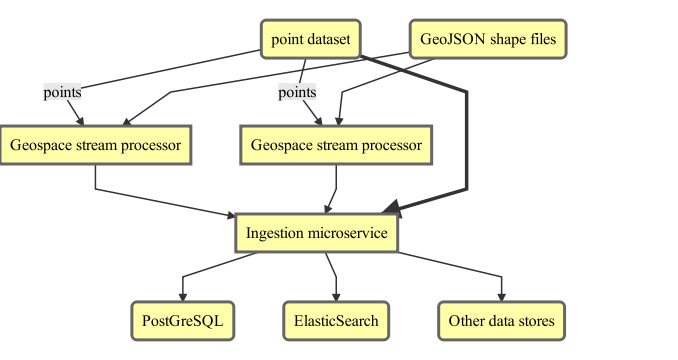
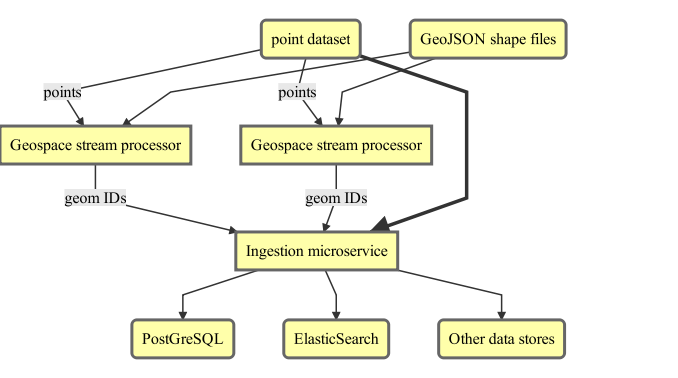
More adjustments to geo presentation, plus more images!

diff --git a/2015-streaming-geo-processing/streaming-geo-processing.md b/2015-streaming-geo-processing/streaming-geo-processing.md
@@ -18,38 +18,36 @@
 ## ![](socrata-white-medium.png)
 
 <center>
-<h3>We build <span style="color: #4e82ff">software</span> to make <span style="color: #ff5887">data</span> useful to <span style="color: #f7b63d">more people</span>.</h3>
+<h3>The leading open <span style="color: #ff5887">data</span> software platform</h3>
 </center>
 
-[data.edmonton.ca](http://data.edmonton.ca) [finances.worldbank.org](http://finances.worldbank.org) [data.cityofchicago.org](http://data.cityofchicago.org) [data.seattle.gov](http://data.seattle.gov) [data.oregon.gov](http://data.oregon.gov) [data.wa.gov](http://data.wa.gov) [www.metrochicagodata.org](http://www.metrochicagodata.org) [data.cityofboston.gov](http://data.cityofboston.gov) [info.samhsa.gov](http://info.samhsa.gov) [explore.data.gov](http://explore.data.gov) [data.cms.gov](http://data.cms.gov) [data.ok.gov](http://data.ok.gov) [data.nola.gov](http://data.nola.gov) [data.illinois.gov](http://data.illinois.gov) [data.colorado.gov](http://data.colorado.gov) [data.austintexas.gov](http://data.austintexas.gov) [data.undp.org](http://data.undp.org) [www.opendatanyc.com](http://www.opendatanyc.com) [data.mo.gov](http://data.mo.gov) [data.nfpa.org](http://data.nfpa.org) [data.raleighnc.gov](http://data.raleighnc.gov) [dati.lombardia.it](http://dati.lombardia.it) [data.montgomerycountymd.gov](http://data.montgomerycountymd.gov) [data.cityofnewyork.us](http://data.cityofnewyork.us) [data.acgov.org](http://data.acgov.org) [data.baltimorecity.gov](http://data.baltimorecity.gov) [data.energystar.gov](http://data.energystar.gov) [data.somervillema.gov](http://data.somervillema.gov) [data.maryland.gov](http://data.maryland.gov) [data.taxpayer.net](http://data.taxpayer.net) [bronx.lehman.cuny.edu](http://bronx.lehman.cuny.edu) [data.hawaii.gov](http://data.hawaii.gov) [data.sfgov.org](http://data.sfgov.org) [data.cityofmadison.com](http://data.cityofmadison.com) [healthmeasures.aspe.hhs.gov](http://healthmeasures.aspe.hhs.gov) [data.weatherfordtx.gov](http://data.weatherfordtx.gov) [www.data.act.gov.au](http://www.data.act.gov.au) [data.wellingtonfl.gov](http://data.wellingtonfl.gov) [data.honolulu.gov](http://data.honolulu.gov) [data.kcmo.org](http://data.kcmo.org) [data2020.abtassociates.com](http://data2020.abtassociates.com)
+[data.edmonton.ca](http://data.edmonton.ca) [finances.worldbank.org](http://finances.worldbank.org) [data.cityofchicago.org](http://data.cityofchicago.org) [data.seattle.gov](http://data.seattle.gov) [data.oregon.gov](http://data.oregon.gov) [data.wa.gov](http://data.wa.gov) [www.metrochicagodata.org](http://www.metrochicagodata.org) [data.cityofboston.gov](http://data.cityofboston.gov) [info.samhsa.gov](http://info.samhsa.gov) [explore.data.gov](http://explore.data.gov) [data.cms.gov](http://data.cms.gov) [data.ok.gov](http://data.ok.gov) [data.nola.gov](http://data.nola.gov) [data.illinois.gov](http://data.illinois.gov) [data.colorado.gov](http://data.colorado.gov) [data.austintexas.gov](http://data.austintexas.gov) [data.undp.org](http://data.undp.org) [www.opendatanyc.com](http://www.opendatanyc.com) [data.mo.gov](http://data.mo.gov) [data.nfpa.org](http://data.nfpa.org) [data.raleighnc.gov](http://data.raleighnc.gov) [dati.lombardia.it](http://dati.lombardia.it) [data.montgomerycountymd.gov](http://data.montgomerycountymd.gov) [data.cityofnewyork.us](http://data.cityofnewyork.us) [data.acgov.org](http://data.acgov.org) [data.baltimorecity.gov](http://data.baltimorecity.gov) [data.energystar.gov](http://data.energystar.gov) [data.somervillema.gov](http://data.somervillema.gov) [data.maryland.gov](http://data.maryland.gov) [data.taxpayer.net](http://data.taxpayer.net) [bronx.lehman.cuny.edu](http://bronx.lehman.cuny.edu) [data.hawaii.gov](http://data.hawaii.gov) [data.sfgov.org](http://data.sfgov.org)
 
-Note: We are the open data and open government company. We organize lots of civic hackathons.  We publish government data to make it easy for you to be an informed citizen.  Our mission is to enable data-driven government.
+Note: I'm proud to rep Socrata - we are the open data and open government company. Our mission is to help government inform citizens and provide awesome APIs and visualizations. We organize lots of civic hackathons.
 
 ---
 
-## Many interesting datasets
+## 21st century government
 
-- Geospatial Data
-- Public Safety Data
-- Traffic, Crime, Environmental, Complaints
-- Salary Data
-- Health Data
-- Expenditure Data
-- Education Data
-- Census Data
-- Parcel Property Data
-- Business Data
-- Locations of Government Services
+<center>Data-driven government and informed citizens can:</center>
+
+- Lower the cost of healthcare
+- Improve education systems
+- Fight climate change
+- Improve city safety
+- Reduce the occurrences of crime
+- Reduce bureaucratic inefficiencies
+- Spur local innovation
 
 ---
 
 ## Why Socrata cares about Geo
 
-Most of the interesting data that citizens and government care about are highly geographical:
-
 - 311 and 911 data
 - where crimes are occurring
 - traffic and transportation information
+
+NOTE: Most of the interesting data that citizens and government care about are highly geographical
 
 --
 
@@ -110,7 +108,9 @@ Way too slow!  <!-- .element: class="fragment roll-in" -->
 - JOIN is only possible if dataset resides in same DB
 - we have datasets that are 20 million rows, and growing
 
-TODO: insert picture of watching paint dry
+<center>
+![](watch_paint_dry.jpg)
+</center>
 
 --
 
@@ -177,16 +177,12 @@ Socrata has been a 100% Scala shop in our backend services for 2-3 years, starte
 
 ---
 
-## Our Architecture
-
-- Overall diagram: include multiple Geospaces
-
----
-
-## Point data ingestion
+## Geo region coding architecture
 
 ![](geospace-coding.mermaid.png)
 <!-- .element: class="mermaid" -->
+
+The geospace microservice also ingests shapefiles.
 
 ---
 
@@ -220,7 +216,7 @@ A microservice for geo-region-coding
     + Uses an in-memory cache and Futures for efficient geo operations
 - Fast
     + 10,000+ point in polygon ops/sec per thread
-    + Only when region is in memory though - loading takes a long time
+    + Only when region is in memory though - loading could take many seconds
 - Low latency
     + Not when run low on memory or loading region shapes
 
@@ -229,9 +225,10 @@ A microservice for geo-region-coding
 ## Memory Pressure
 
 - Regularly monitoring memory usage
-    + Memory usage in Java/Scala: tricky to measure, % no good?
-- (separate slide) Why do we need active eviction?
-- Eviction: bad bad bad (latency goes out the window)
+    + `Runtime.getRuntime.freeMemory`
+    + Watch out! `maxMemory` is the currently allocated max, not -Xmx!
+    + Actively evict from cache when low on memory
+- Eviction: bad bad bad!! (latency goes out the window)
 
 ---
 
@@ -275,7 +272,7 @@ Cons:
 
 ## Partitioning
 
-TODO: insert visual diagram of partitioning shapes/map into regions
+![](partitioning-zip-codes.png)
 
 ---
 
@@ -296,16 +293,24 @@ TODO: insert visual diagram of partitioning shapes/map into regions
 
 - Partition all the region datasets using the same hashing scheme
     + Implies common projection for everything - should be doing this anyways
-- GeoHash
+- GeoHash - ASCII encoding of latitude/longitude
+    + Each letter subdivides the space into 4 x 8 grid
+    + Used in ElasticSearch, MongoDB, etc.
 - Space-filling curve
 
 ---
 
 ## Efficient Geometries
 
-Insert quote about trading off speed for memory efficiency and latency.
+<center>
+![](compression.jpg)
+</center>
 
-Example: compression
+Compression - trading absolute speed for more storage?
+
+---
+
+### The JTS `Coordinate` object takes 40 bytes for storing two doubles!
 
 ---
 
